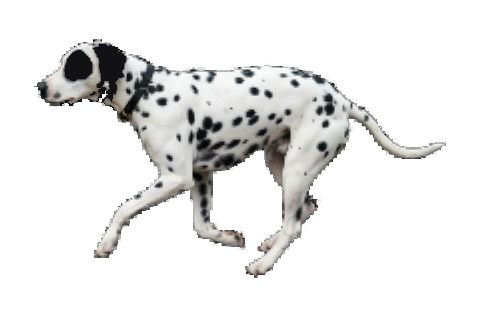
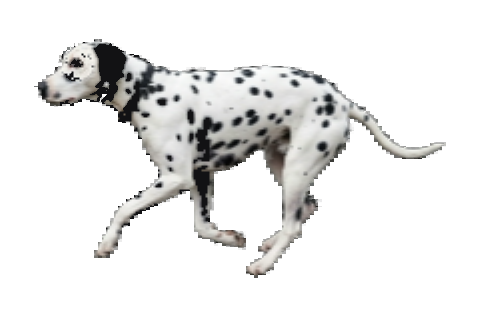
Fix Patch biological anatomy: patch on right eye only across all running and tilt stop poses

diff --git a/assets/js/dalmatian-guardians.js b/assets/js/dalmatian-guardians.js
@@ -36,7 +36,7 @@
       this.lastTimestamp = 0;
 
       // Cache buster for ultra-clear high-DPI assets
-      const v = 'v=crystal_clear_patch_eye_v20';
+      const v = 'v=patch_perfect_eyes_v21';
 
       // Load 6-frame running sequences
       // Patch has anatomically separate sequences: right-facing (right eye patch) and left-facing (no eye patch)
